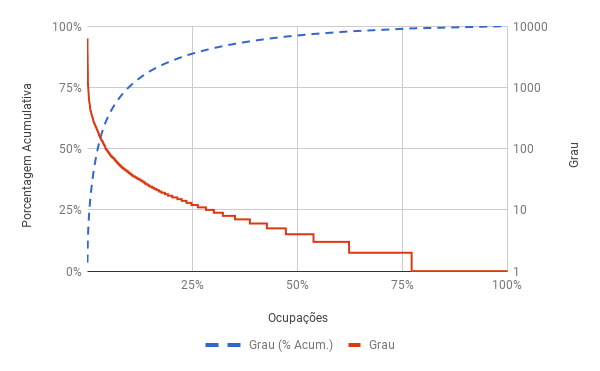
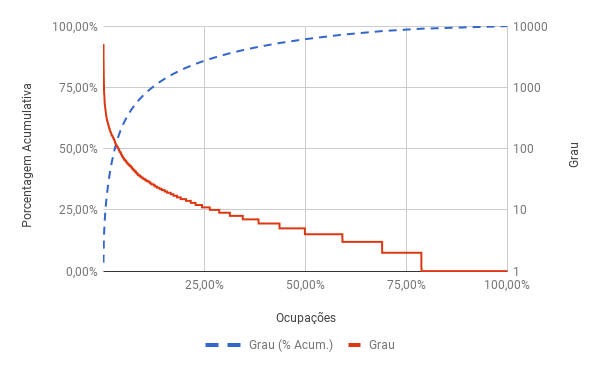
Versão nova de imagens e alteração no texto do Mapa
Com a nova versão usando trigramas, o texto precisou ser alterado. Novas
seções vão entrar para explicar melhor o processo.

diff --git a/main.tex b/main.tex
@@ -118,15 +118,15 @@ Também os modelos de carreiras têm se modificado e teorias como as das \textit
 
 No entanto, o movimento de uma pessoa entre ocupações profissionais não é simples. A capacitação do indivíduo, a atratividade da nova ocupação e o próprio conhecimento de que uma transição é possível a tornam mais fácil ou difícil para os profissionais. Quando essa transição é percebida como uma barreira por um número suficiente de pessoas, surge uma \textit{fronteira de carreira}~\cite{Gunz2007-hr}. Essas fronteiras delimitam um grupo de ocupações nas quais um indivíduo tem maiores chances de permanecer durante sua trajetória profissional, denominado aqui como \textit{ilha ocupacional}.
 
-Esse trabalho utiliza o conceito de fronteira de carreira~\cite{Gunz2007-hr}, um banco de dados real com milhões de experiências profissionais ~\cite{VAGAS_Tecnologia2014-yv} e técnicas de detecção de comunidades em redes~\cite{Rosvall2009-sd} para encontrar esses grupos profissionais no mercado de trabalho brasileiro, discutir e entender sua estrutura.
+Esse trabalho utiliza o conceito de fronteira de carreira~\cite{Gunz2007-hr}, um banco de dados real com milhões de experiências profissionais ~\cite{VAGAS_Tecnologia2014-yv} e técnicas de detecção de comunidades em redes~\cite{Rosvall2009-sd} para encontrar ilhas ocupacionais no mercado de trabalho brasileiro, discutir e entender sua estrutura.
 
-O estudo revela onde estão as fronteiras das ilhas ocupacionais, quais suas composições e apresenta \textit{insights} sobre suas estruturas. O resultado obtido pode ser usado para o refinamento de teorias sobre carreira, como uma classificação natural para as ocupações baseada na movimentação profissional, ou como subsídio para o planejamento de carreiras.
+O estudo revela onde estão as fronteiras das ilhas, quais suas composições e apresenta \textit{insights} sobre suas estruturas. O resultado obtido pode ser usado para o refinamento de teorias sobre carreira, como uma classificação natural para as ocupações baseada na movimentação profissional, ou como subsídio para o planejamento de carreiras.
 
 A principal contribuição desse trabalho está em tornar concreto o conceito de \textit{fronteiras de carreira}, aplicando técnicas de Ciência de Redes para revelar a estrutura da rede de movimentação profissional no Brasil. O trabalho se estende nesse processo, derivando o conceito de ilha ocupacional a partir das fronteiras de carreiras como grupos de ocupação que se isolam de outros, onde a movimentação inter-ilhas é rara em comparação à movimentação intra-ilhas.
 
-Explorando esse conceito, o trabalho caracteriza a topologia das ilhas ocupacionais e propõe a identificação de \textit{polos ocupacionais} como ocupações que possuem papel crucial na estrutura. A topologia encontrada na maior parte das ilhas tende a um formato estrelado, sugerindo que a atuação nos polos afetem a ilha como um todo.
+Explorando esse conceito, o trabalho caracteriza a topologia das ilhas ocupacionais e propõe a identificação de \textit{polos ocupacionais} como ocupações que possuem papel crucial na estrutura. A topologia encontrada na maior parte das ilhas tende a um formato estrelado, sugerindo que a atuação nos polos afeta a ilha como um todo.
 
-A presença de uma ilha gigante nos resultados fornece indícios que suportam modelos de carreira, como o de \textit{Carreira sem Fronteiras}, ao mesmo tempo em que indicam que eles não abrangem todos os segmentos profissionais.
+A presença de uma ilha gigante nos resultados fornece indícios que suportam o modelo de \textit{Carreira sem Fronteiras}, ao mesmo tempo em que indica que ela não abrange todos os segmentos profissionais.
 
 Esse artigo está organizado da seguinte forma. A Seção~\ref{sec:carreira} descreve o conceito de fronteira da carreira, enquanto a Seção~\ref{sec:mapa} descreve o banco de dados utilizado na pesquisa. As Seções~\ref{sec:comunidades} e~\ref{sec:assortatividade} descrevem os algoritmos empregados para detecção de comunidades e a medição utilizada na caracterização da topologia. Finalmente, a Seção~\ref{sec:resultados} discute e levanta questões sobre os resultados obtidos. As conexões entre fronteiras de carreira e o algoritmo utilizado para detecção de comunidades são feitas ao final das Seções~\ref{sec:carreira} e~\ref{sec:comunidades}.
 
@@ -136,7 +136,7 @@ Esse artigo está organizado da seguinte forma. A Seção~\ref{sec:carreira} des
 
 Segundo~\citeonline{Arthur1989-rn}, carreira é \foreignquote{english}{uma sequência evolutiva da experiência profissional de uma pessoa no tempo}\footnote{No original: \enquote{an evolving sequence of person's work experience over time}.}.
 
-Apesar das discussões sobre as mudanças nos modelos de carreira, passando de um modelo linear e centrado na organização para um modelo centrado no indivíduo, as definições de carreira são frequentemente associadas à progressão ou sequência profissional do indivíduo~\cite{Baruch2004-oy,Sullivan2009-xb,Bendassolli2009-bg}.
+Apesar das discussões sobre as mudanças nos modelos de carreira, passando de um modelo linear e centrado na organização para um modelo centrado no indivíduo, as definições de carreira são frequentemente associadas à progressão profissional do indivíduo~\cite{Baruch2004-oy,Sullivan2009-xb,Bendassolli2009-bg}.
 
 Para os fins desse trabalho, define-se carreira como \textit{a sequência de \textbf{ocupações} pela qual um indivíduo passa em sua vida profissional}. Essa definição é similar à de \citeonline{Arthur1989-rn}, porém, limita sua abrangência e a torna mais concreta. Isso permite uma análise menos subjetiva, uma vez que ocupações profissionais podem ser extraídas de currículos e analisadas quantitativamente. No entanto, ela se torna mais limitada, já que essa definição exclui aspectos psicológicos ou sociais.
 
@@ -154,9 +154,9 @@ Dessa maneira, as fronteiras de carreira são definidas objetivamente quando uma
 
 Partindo desse pressuposto, a identificação de trajetórias comuns e incomuns é condição suficiente e necessária para a detecção de fronteiras entre carreiras. Suficiente, pois a própria definição de fronteira é dependente da identificação do que são transições \enquote{incomuns}. Necessária, pois não existem fronteiras objetivamente definidas sem o consenso.
 
-Essas fronteiras isolam algumas ocupações das outras, criando grupo coeso não por alguma característica intrínseca, mas pelo distanciamento.  Ou seja, a fronteira define o grupo, e não o contrário~\cite{Gunz2007-hr,Abbott1995-ft}. 
+Essas fronteiras isolam algumas ocupações das outras, criando um grupo coeso pelo distanciamento dos outros grupos e não por alguma característica intrínseca.  Ou seja, a fronteira define o grupo, e não o contrário~\cite{Gunz2007-hr,Abbott1995-ft}. 
 
-No presente trabalho esses aglomerados de ocupações são chamados \textit{ilhas de ocupações} ou \textit{ilhas ocupacionais}, refletindo a facilidade de movimentação dentro de suas fronteiras e o distanciamento de outros grupos. O termo é usado somente para descrever ocupações, enquanto os termos \textit{partição} ou \textit{comunidade} se referem a subgrafos em uma rede genérica.
+No presente trabalho esses aglomerados de ocupações são chamados \textit{ilhas de ocupações} ou \textit{ilhas ocupacionais}, refletindo a facilidade de movimentação dentro de suas fronteiras e o distanciamento de outros grupos.
 
 Como será visto a seguir, as ocupações serão representadas por nós em um grafo, enquanto as conexões trarão informações sobre as transições entre ocupações. Neste tipo de representação, outro conceito central introduzido para o desenvolvimento da pesquisa é o de \textit{polos ocupacionais}, ou seja, ocupações dentro de uma ilha por onde passa o maior fluxo de profissionais. Dada a topologia em formato de estrela encontrada nas ilhas, é esperado que perturbações nesses nós, como aumento ou diminuição no fluxo de profissionais, afetem a rede como um todo e sua eliminação causem o esfacelamento da ilha, ou seja, são as principais responsáveis por manter a ilha \textit{coesa}~\cite{Callaway2000-ug}. 
 
@@ -177,19 +177,19 @@ O Mapa VAGAS de Carreiras~\cite{VAGAS_Tecnologia2014-yv} é uma rede que resume 
   \label{fig:ex-mapa-midia}
 \end{figure}
 
-As ocupações no MCar foram definidas a partir de \textit{consenso} nos currículos. Como o título da ocupação é um campo em que o usuário digita livremente, assumiu-se que, se um grupo \enquote{suficientemente grande} de pessoas entra em acordo sobre uma certa nomenclatura, ela representa objetivamente uma ocupação. Essa abordagem é colocada de maneira implícita em ~\citeonline{Abbott1995-ft}, já \citeonline{Gunz2007-hr} a exploram para definir fronteiras de carreiras.
+As ocupações no MCar foram definidas a partir de \textit{consenso} nos currículos. Como o título da ocupação é um campo em que o usuário digita livremente, assumiu-se que, se um grupo \enquote{suficientemente grande} de pessoas entra em acordo sobre uma certa nomenclatura, ela representa objetivamente uma ocupação. Essa abordagem é colocada de maneira implícita em ~\citeonline{Abbott1995-ft}, enquanto \citeonline{Gunz2007-hr} a exploram para definir fronteiras de carreiras.
 
-Uma das maiores dificuldades está em se definir o quanto um consenso precisa ser \enquote{suficientemente grande} para de fato existir uma ocupação. Para os fins desse trabalho, esse número foi obtido de forma experimental e empírica. Para isso, procurou-se o número mínimo de repetições exatas na grafia das ocupações de maneira que não fossem encontrados erros de digitação recorrentes, ou seja, que das ocupações criadas por consenso, nenhuma fosse resultado de erros frequentes de digitação. Esse número foi definido em 30 repetições, ou 10 transições com exatamente a mesma grafia em ambos os lados da transição.
+Uma das maiores dificuldades para se estabelecer uma ocupação através de consenso está em definir o quanto ele deve ser \enquote{suficientemente grande} para que seja considerada como tal. Para os fins desse trabalho, esse número foi obtido de forma experimental e empírica. Para isso, procurou-se o número mínimo de repetições exatas na grafia das ocupações de maneira que não fossem encontrados erros de digitação recorrentes, ou seja, que das ocupações criadas por consenso, nenhuma fosse resultado de erros frequentes de digitação. Esse número foi definido em 30 repetições da mesma grafia no título da ocupação.
 
-Para a criação do MCar foram usados os currículos anonimizados de 10 milhões de usuários registrados no site VAGAS.com.br. A seleção de dados, bem como o processamento das informações, seguiu um procedimento conservador. Isso significa que as decisões tomadas em sua construção procuram minimizar os erros decorrentes da qualidade dos dados, mesmo que isso signifique trabalhar com uma quantidade menor deles. Utilizando o exemplo na Figura~\ref{fig:ex-mapa-midia}, isso significa que, provavelmente, muito mais do que 16 pessoas na base de dados fizeram a transição de \enquote{supervisor-de-midia} para a ocupação \enquote{gerente-de-midia}, porém, esses 16 são livres de erros e de subjetividade.
+Para a criação do MCar foram usados os currículos anonimizados de 10 milhões de usuários registrados no site VAGAS.com.br. A seleção de dados, bem como o processamento das informações, seguiu um procedimento conservador. Isso significa que as decisões tomadas em sua construção procuram minimizar os erros decorrentes da qualidade dos dados, mesmo que isso signifique trabalhar com uma quantidade menor deles. Utilizando o exemplo na Figura~\ref{fig:ex-mapa-midia}, isso significa que, provavelmente, muito mais do que 16 pessoas na base de dados fizeram a transição de \enquote{supervisor-de-midia} para a ocupação \enquote{gerente-de-midia}, porém, esses 16 são livres de erros e subjetividade.
 
 Da massa de currículos, apenas os atualizados no período entre 2011 e 2016 foram usados. Currículos em duplicação foram removidos usando o CPF como identificador; em caso de duplicação, apenas o currículo mais recente foi considerado. Na impossibilidade de se verificar a duplicação, como por exemplo, na ausência do CPF, o currículo também foi descartado.
 
 Finalmente, algumas informações gerais foram extraídas dos currículos que passaram pelo processo acima e o restante das informações foi descartada, incluindo quaisquer maneiras de se identificar a pessoa descrita no currículo, garantindo a anonimidade do processo.
 
-As informações extraídas são o sexo, último salário, graduação (se existente) ou escolaridade, e a sequência de ocupações pela qual o profissional passou com o título, descrição e período em que exerceu a ocupação.
+As informações extraídas são o sexo, último salário, graduação (se existente) ou escolaridade, e a sequência de ocupações pela qual o profissional passou com seu título, descrição e período em que exerceu a ocupação. Esse trabalho utiliza apenas a sequência de ocupações.
 
-O título da ocupação é um dos principais artefatos do MCar, é ele quem fornece a identidade para o nó. Como descrito acima, nos currículos, o título da ocupação é um campo de texto livre, ou seja, o usuário pode digitar o título sem restrições. Se por um lado isso permite a identificação de ocupações de nicho, novas ou que usem jargão de área; por outro isso significa que os títulos possuem erros de grafia, variações de gênero (como em \enquote{advogado} e \enquote{advogada} ou \enquote{moto boy} e \enquote{moto girl}), composição de múltiplas ocupações em um mesmo título (como \enquote{caixa/balconista}), abreviações e toda a gama de erros de interpretação possíveis.
+O título da ocupação é um dos principais artefatos do MCar, é ele quem fornece a identidade para o nó. Como descrito acima, nos currículos, o título da ocupação é um campo de texto livre, ou seja, o usuário pode digitar o título sem restrições. Se por um lado isso permite a identificação de ocupações de nicho, novas ou que usem jargão de áre; por outro isso significa que os títulos possuem erros de grafia, variações de gênero (como em \enquote{advogado} e \enquote{advogada} ou \enquote{moto boy} e \enquote{moto girl}), composição de múltiplas ocupações em um mesmo título (como \enquote{caixa/balconista}), abreviações e toda a gama de erros de interpretação possíveis.
 
 As ocupações passam por um corretor ortográfico criado especificamente para esse trabalho, uma vez que um corretor tradicional não é capaz de identificar jargões de área como \enquote{enfermeiranda}, \enquote{rigger} ou \enquote{IRLA}.
 
@@ -197,11 +197,11 @@ Como exemplo, o dicionário do corretor possui cerca de 750 variações ortográ
 
 Após o trabalho de correção ortográfica, os títulos foram agrupados e contados. Especialistas da empresa verificaram os resultados dos maiores grupos para identificar anomalias, como ocupações com os títulos \enquote{sim}, \enquote{não} e \enquote{o mesmo}. Ocupações como essas foram excluídas do trabalho.
 
-Finalmente, pares de ocupações foram gerados. Por exemplo, um currículo com a sequência de ocupações \enquote{saladeiro} $\to$ \enquote{chapeiro} $\to$ \enquote{cozinheiro} gera os pares \enquote{saladeiro} $\to$ \enquote{chapeiro} e \enquote{chapeiro} $\to$ \enquote{cozinheiro}.
+A partir desse ponto o trabalho diverge do MCar. Enquanto o segundo usa conexões direcionadas entre duas ocupações, o primeiro usa trigramas direcionados, ou seja, sequências de três ocupações.  Dessa forma, o algoritmo consegue identificar ocupações que pertencem a múltiplas comunidades. Os detalhes são explicados da Seção \ref{sec:infomap}.
 
-Os pares foram agrupados e sua contagem se torna o peso de cada conexão na rede final. Nesse ponto do processo, cerca de 23 milhões de experiências profissionais são agrupadas em exatamente 7.450 ocupações distintas.
+No MCar, a sequência de ocupação foi usada para gerar pares. Por exemplo, um currículo com a sequência de ocupações \enquote{saladeiro} $\to$ \enquote{chapeiro} $\to$ \enquote{cozinheiro} gera os pares \enquote{saladeiro} $\to$ \enquote{chapeiro} e \enquote{chapeiro} $\to$ \enquote{cozinheiro}. Os pares foram agrupados e sua contagem se torna o peso de cada conexão na rede final.
 
-Finalmente, os pares de ocupações foram conectados entre si e a rede final foi construída e armazenada em um banco de dados de grafo. Um sistema online\footnote{Disponível em \url{http://www.vagas.com.br/mapa-de-carreiras}} disponibiliza as informações publicamente. Apesar de gratuito e de consulta pública, os dados do Mapa VAGAS da Carreira não são de uso livre. A empresa gentilmente cedeu os dados ao pesquisador para esse trabalho.
+Finalmente, as conexões foram conectadas pela ocupações em comum e a rede final foi construída e armazenada em um banco de dados de grafo. Um sistema online\footnote{Disponível em \url{http://www.vagas.com.br/mapa-de-carreiras}} disponibiliza as informações publicamente. Apesar de gratuito e de consulta pública, os dados do Mapa VAGAS da Carreira não são de uso livre. A empresa gentilmente cedeu os dados ao pesquisador para esse trabalho.
 
 %===================================
 \section{Grafos e Detecção de Comunidades} \label{sec:comunidades}
@@ -209,7 +209,7 @@ Finalmente, os pares de ocupações foram conectados entre si e a rede final foi
 
 Uma \textit{comunidade} é um subgrafo com conexões mais \textit{coesas} entre seus nós do que com nós do restante do grafo. A palavra \enquote{coesão} aqui pode ser interpretada de várias maneiras. Para \citeonline{Ahn2010-uh,Evans2009-lq}, uma comunidade é definida quando o número de conexões internas do subgrafo é maior que o número de conexões que o conecta ao resto do grafo. Para \citeonline{Barabasi2016-rn,Newman2004-jg} a comunidade deve possuir uma densidade de conexões mais alta do que o esperado em uma rede aleatória equivalente. Para esses autores, o número de conexões é o fator determinante para a identificação da comunidade.
 
-\citeonline{Rosvall2009-sd,Van_Dongen2000-qm}, por sua vez, trabalham a detecção de comunidades como a identificação de fluxos mais frequentes na rede. Assumindo que uma conexão representa um fluxo, comunidades possuem fluxo maior entre seus nós do que com nós fora da comunidade.
+\citeonline{Rosvall2009-sd} e \citeonline{Van_Dongen2000-qm}, por sua vez, trabalham a detecção de comunidades como a identificação de fluxos mais frequentes na rede. Assumindo que uma conexão representa um fluxo, comunidades possuem fluxo maior entre seus nós do que com outros fora da comunidade.
 
 Essas abordagens distintas são aplicáveis a cenários diferentes. A densidade de conexões é mais adequada em redes onde a estrutura é importante, como, por exemplo, em uma rede social. Já em redes que representam fluxos, como circuitos ou redes de transporte, a segunda abordagem é mais atraente~\cite{Rosvall2009-sd}.
 
@@ -269,9 +269,9 @@ Se cada nó for representado por uma sequência de bits, podemos medir quanta in
 
 Os códigos usados por cada grupo são chamados \textit{codebooks}, os códigos que indicam qual \textit{codebook} será usado também é um \textit{codebook}, funcionando como um índice. Na Figura~\ref{fig:graph04}, existem três deles, um para cada grupo, contendo os nós \enquote{00}, \enquote{01}, \enquote{10}, \enquote{110} e o código de saída \enquote{111}. O \textit{codebook} índice possui os códigos: \enquote{0}, \enquote{10} e \enquote{11}.
 
-Dessa forma o caminho que começa no nó mais abaixo do grafo da Figura~\ref{fig:graph03} e termina no nó do canto superior esquerdo é descrito pela sequência binária \enquote{000 1110 1011 1111 1101}, usando 19 bits. O mesmo caminho, usando a codificação da Figura~\ref{fig:graph04} é \enquote{\textbf{0} 01 110 \textit{111} \textbf{11} 00 01 10} e possui 17 bits (os números em negrito indicam entrada em um grupo e o número em itálico indica saída do grupo).
+Dessa forma, sem o uso de \textit{codebooks}, o caminho que começa no nó mais abaixo do grafo da Figura~\ref{fig:graph03} e termina no nó do canto superior esquerdo é descrito pela sequência binária \enquote{000 1110 1011 1111 1101}, usando 19 bits. O mesmo caminho, usando a codificação com \textit{codebooks} da Figura~\ref{fig:graph04} é \enquote{\textbf{0} 01 110 \textit{111} \textbf{11} 00 01 10} e possui 17 bits (os números em negrito indicam entrada em um grupo e o número em itálico indica saída do grupo).
 
-Nesse caminho curto, ambas as codificações têm tamanhos similares, Porém, em um caminho infinitamente longo (ergódico), o uso de múltiplos \textit{codebooks} pode produzir um código mais compacto do que o uso de um único \textit{codebook}. Como exemplo, o caminho da Figura~\ref{fig:walk01} usando a codificação com um único \textit{codebook}da Figura~\ref{fig:graph03} possui 2880 bits, enquanto possui 1776 bits usando a codificação com três \textit{codebooks} da Figura~\ref{fig:graph04}.
+Nesse caminho curto, ambas as codificações têm tamanhos similares, Porém, em um caminho infinitamente longo (ergódico), o uso de múltiplos \textit{codebooks} pode produzir um código mais compacto do que o uso de um único \textit{codebook}. Como exemplo, o caminho da Figura~\ref{fig:walk01} usando a codificação com um único \textit{codebook} da Figura~\ref{fig:graph03} possui 2880 bits contra 1776 bits usando a codificação com três \textit{codebooks} da Figura~\ref{fig:graph04}.
 
 \begin{figure}[ht]
   \centering
@@ -340,7 +340,7 @@ H(\mathcal{P}^i)         &= - \frac{q_{i \curvearrowright}}{p^i_\circlearrowrigh
 L(\mathsf{M})              &= q_\curvearrowright \log_2 q_\curvearrowright - 2 \sum_{i = 1}^m q_{i \curvearrowright} \log_2 q_{i \curvearrowright} - \sum_{\alpha = 1}^n p_\alpha \log_2 p_\alpha + \sum_{i = 1}^m p^i_\circlearrowright \log_2 p^i_\circlearrowright\,.
 \end{align}
 
-Existem variações da Equação de Mapa para detecção de comunidades sobrepostas~\cite{Viamontes_Esquivel2011-it} e hierárquicas~\cite{Rosvall2011-yi}. Este trabalho usa ambas as variações.
+Existem variações da Equação de Mapa para detecção de comunidades sobrepostas~\cite{Viamontes_Esquivel2011-it} e hierárquicas~\cite{Rosvall2011-yi}. Este trabalho usa a variação hierárquica.
 
 Para o algoritmo que permite que os nós pertençam a mais de uma comunidade, \citeonline{Viamontes_Esquivel2011-it} usam \textit{conexões com memória} para lembrar o passo anterior do \textit{random walker}. Quando ele se mover para um nó que pertence à múltiplas comunidades, ele se manterá na comunidade de onde veio, se possível.
 
@@ -368,6 +368,9 @@ A Equação de Mapa para comunidades com sobreposição é
                                + \sum_{i=1}^m p^i_\circlearrowright \log_2 p^i_\circlearrowright\,.                            
 \end{equation}
 
+\begin{comment}
+%% NOTA (Ronie): Tive problemas com o software para rodar a versão hierárquica SEM sobreposição. Para evitar alongar ainda mais esse artigo, excluí as partes de hierarquia. Não vai fazer muita falta, até pq o foco aqui são as ilhas (e não 'ilhas aninhadas').
+
 A variação hierárquica do algoritmo possibilita detecção de comunidades aninhadas, nesse caso, ela é uma generalização da Equação de Mapa original que permite múltiplos \textit{codebooks} índices.
 
 Nessa variação, cada partição $\mathsf{M}$ possui um subparticionamento $\mathsf{M}^i$. Cada um dos subgrupos de $\mathsf{M}^i$ possui outro subparticionamento $\mathsf{M}^{ij}$ e assim sucessivamente até o particionamento final $\mathsf{M}^{ij \ldots k}$.
@@ -391,6 +394,7 @@ A Equação de Mapa original (Equação~\ref{eq:map-equation}) é na verdade um 
 %% SE USAMOS AS VARIAÇÕES DA EQUAÇÃO DE MAPA, ENTÃO PRECISAMOS APRESENTÁ-LAS AQUI
 % Ronie: Feito!!!! Demorou uma vida pra entender como as equações dos três artigos se relacionavam, mas entendi :) A pior parte foi entender que a matriz estocástica W é linear, enquanto que nos materiais introdutórios ela é _sempre_ colunar, essa confusão me fez ficar dois fins se semana batendo a cabeça com 'essa conta não faz sentido'. Pois é, não fazia mesmo.
 % Ronie: Está faltando só a equação hierárquica, estou escrevendo ela agora.
+\end{comment}
 
 %===================================
 \section{Assortatividade} \label{sec:assortatividade}
@@ -400,13 +404,13 @@ A assortatividade é uma medida de quão nós similares estão conectados entre 
 
 A assortatividade de grau é de especial interesse na análise de redes, pois permite caracterizar sua topologia. Redes com assortatividade negativa (desassortativas), remetem à topologia de \enquote{eixo e raios} (\textit{hub and spokes}), onde nós de grau muito alto (\textit{hubs}) se conectam a muitos nós de grau mais baixo~\cite{Barabasi2016-rn}. A Figura~\ref{fig:ex-sobreposicao-ti} mostra um exemplo de uma rede em que predomina essa topologia.
 
-Quanto menor a assortatividade, mais a rede se aproxima da topologia de \enquote{estrela}, em que todos os nós de alto grau só se conectam a nós de grau muito baixo. Como exemplos, a ilha ocupacional relacionada a \enquote{fisioterapia} na Figura~\ref{fig:ex-fisioterapeutas}, com assortatividade $-0,27$, possui todos os nós conectados a um \textit{hub} central, com poucas conexões entre ocupações periféricas. Já a ilha relacionada a \enquote{bolsistas} na Figura~\ref{fig:ex-bolsistas}, com assortatividade $-0,07$, não possui um \textit{hub} tão claramente definido; ainda que existam alguns nós folhas conectados a nós de maior grau, boa parte dos nós possui grau similar.
+Quanto menor a assortatividade, mais a rede se aproxima da topologia de \enquote{estrela}, em que todos os nós de alto grau só se conectam a nós de grau muito baixo. Como exemplos, a ilha ocupacional relacionada a \enquote{fisioterapia} na Figura~\ref{fig:ex-assortatividade-negativa}, com assortatividade $-0,27$, possui todos os nós conectados a um \textit{hub} central, com poucas conexões entre ocupações periféricas. Já a ilha relacionada a \enquote{bolsistas} na Figura~\ref{fig:ex-bolsistas}, com assortatividade $-0,07$, não possui um \textit{hub} tão claramente definido; ainda que existam alguns nós folhas conectados a nós de maior grau, boa parte dos nós possui grau similar.
 
 \begin{figure}[ht]
     \centering
-    \subfloat[][Assortatividade $-0,27$] {
-        \includegraphics[width=0.4\linewidth]{ex-sobreposicao-fisioterapeutas.pdf}
-        \label{fig:ex-fisioterapeutas}
+    \subfloat[][Engenheiro de Segurança do Trabalho - Assortatividade $-0,53$] {
+        \includegraphics[width=0.4\linewidth]{ex-assortatividade-negativa.pdf}
+        \label{fig:ex-assortatividade-negativa}
     }
     \subfloat[][Assortatividade $-0,07$] {
         \includegraphics[width=0.4\linewidth]{ex-sobreposicao-bolsistas.pdf}
@@ -455,17 +459,17 @@ r &= \frac{p - q}
 
 % Descrição dos dados:
 
-A versão do MCar usada nesse trabalho é de fevereiro de 2017. Ela possui exatamente 7.450 ocupações distintas e 90.800 conexões.
+Os dados usadas para esse trabalho são do MCar de fevereiro de 2017. Após o processo de limpeza da informação o grafo resultante possui 8.395 nós e 74.197 conexões. A versão com trigramas usada para identificação das Ilhas Ocupacionais possui o mesmo número de nós distribuídos em 146.548 trigramas.
 
-A rede de ocupações possui a distribuição de grau exibida no gráfico de Pareto da Figura~\ref{fig:pareto-grau}. Ela possui uma grande concentração de conexões em poucos nós, formando \textit{hubs}. Os 25,01\% nós de maior grau são responsáveis por 88,76\% das conexões da rede.
+A rede de ocupações possui a distribuição de grau exibida no gráfico de Pareto da Figura~\ref{fig:pareto-grau}. Ela possui uma grande concentração de conexões em poucos nós, formando \textit{hubs}. Os 25\% nós de maior grau são responsáveis por 86,51\% das conexões da rede.
 
-Por ser uma rede direcionada, um certo cuidado na análise é necessário, uma vez que o grau dos nós não corresponde diretamente ao número de nós conectados. Imaginando que cada nó pode uma ou duas conexões com um nó vizinho, o grau $k_i$, varia em relação ao número de vizinhos entre $k_i = v_i$ e $k_i = 2v_i$, onde $v$ é o número de nós conectados ao nó $i$ por uma conexão de entrada ou saída.
+Por ser uma rede direcionada, um certo cuidado na análise é necessário, uma vez que o grau dos nós não corresponde diretamente ao número de nós conectados. Imaginando que cada nó pode ter uma ou duas conexões com o mesmo nó vizinho, o grau $k_i$, varia em relação ao número de vizinhos entre $k_i = v_i$ e $k_i = 2v_i$, onde $v$ é o número de nós conectados ao nó $i$ por uma conexão de entrada ou saída.
 
-O quanto cada nó contribui para a conectividade da rede pode ser observada no gráfico de Pareto da Figura~\ref{fig:pareto-subgrafo}. As ocupações estão ordenadas pelo número de nós no subgrafo formado pela ocupação e todos os seu nós vizinhos. Exatamente 10\% dos nós com mais vizinhos são suficientes para conectar 95,77\% da rede.
+O quanto cada nó contribui para a conectividade da rede pode ser observada no gráfico de Pareto da Figura~\ref{fig:pareto-egografo}. As ocupações estão ordenadas pelo número de vizinhos. Exatamente 10\% dos nós com mais vizinhos são suficientes para conectar 95,77\% da rede.
 
 O nó de maior grau \textit{Auxiliar Administrativo} possui 6.308 das 90.800 conexões da rede, mas forma um subgrafo com os nós vizinhos com 3.962 dos 7.450 nós da rede, ou seja, 53,18\% das ocupações de alguma forma possui fluxo de profissionais saindo ou entrando dessa ocupação.
 
-Na Figura~\ref{fig:pareto-subgrafo}, o acumulativo considera apenas o nós \textit{novos} em relação às ocupações anteriores. Por exemplo, a segunda ocupação mais conectada (\textit{Vendedor}, com 2215 nós vizinhos) possui apenas 218 nós \enquote{inéditos} em relação a \textit{Auxiliar Administrativo}, a terceira ocupação (\textit{Assistente Administrativo}, com 2.192 nós vizinhos) contribui apenas com 83 nós não conectados pelas duas ocupações anteriores.
+Na Figura~\ref{fig:pareto-egografo}, o acumulativo considera apenas o nós \textit{novos} em relação às ocupações anteriores. Por exemplo, a segunda ocupação mais conectada (\textit{Vendedor}, com 2215 nós vizinhos) possui apenas 218 nós \enquote{inéditos} em relação a \textit{Auxiliar Administrativo}, a terceira ocupação (\textit{Assistente Administrativo}, com 2.192 nós vizinhos) contribui apenas com 83 nós não conectados pelas duas ocupações anteriores.
 
 %% AH, VOCÊ NÃO VAI DEIXAR O LEITOR CURIOSO PARA SABER QUAL É ESSA OCUPAÇÃO QUE SE CONECTA COM QUASE TODAS AS OUTRAS, VAI? DIZ AÍ! E ESCREVA TAMBÉM. INCLUSIVE, VALEM ALGUNS COMENTÁRIOS SOBRE TAL OCUPAÇÃO.
 
@@ -477,17 +481,17 @@ Na Figura~\ref{fig:pareto-subgrafo}, o acumulativo considera apenas o nós \text
     \includegraphics[width=0.49\linewidth]{pareto-grau}
     \label{fig:pareto-grau}
   }    
-  \subfloat[][Pareto por Subgrafo Conectado] {
-      \includegraphics[width=0.49\linewidth]{pareto-subgrafo}
-      \label{fig:pareto-subgrafo}
+  \subfloat[][Pareto por Ego Grafo] {
+      \includegraphics[width=0.49\linewidth]{pareto-egografo}
+      \label{fig:pareto-egografo}
   }  
-  \caption{Gráficos de Pareto com a distribuição de grau  do MCar e com o tamanho dos subgrafos formados pelos nós com maior conectividade. Os gráficos estão colocados lado a lado para facilitar a comparação. Os nós estão ordenados de maneira decrescente no eixo horizontal; na Figura~\ref{fig:pareto-grau}  as ocupações de grau maior no estão à esquerda e ocupações de menor grau estão à direita. na Figura~\ref{fig:pareto-subgrafo} elas estão ordenadas pelo tamanho do subgrafo formado pela ocupação e todos os seus vizinhos. Os eixos direitos, em escala logarítmica, estão associados às linhas cheias e representam, respectivamente, o grau do nó e o tamanho do subgrafo. Os eixos esquerdos estão associados às linhas tracejadas; na Figura~\ref{fig:pareto-grau} ela representa a somatória de todos os graus em porcentagem e qual a contribuição das ocupações à esquerda para essa totalização; na Figura~\ref{fig:pareto-subgrafo} ela representa a quantidade de ocupações que o subgrafo formado pelas ocupações à esquerda}
+  \caption{Gráficos de Pareto com a distribuição de grau  do MCar e com o tamanho dos subgrafos formados pelos nós com maior conectividade. Os gráficos estão colocados lado a lado para facilitar a comparação. Os nós estão ordenados de maneira decrescente no eixo horizontal; na Figura~\ref{fig:pareto-grau}  as ocupações de grau maior no estão à esquerda e ocupações de menor grau estão à direita. na Figura~\ref{fig:pareto-egografo} elas estão ordenadas pelo tamanho do subgrafo formado pela ocupação e todos os seus vizinhos. Os eixos direitos, em escala logarítmica, estão associados às linhas cheias e representam, respectivamente, o grau do nó e o tamanho do subgrafo. Os eixos esquerdos estão associados às linhas tracejadas; na Figura~\ref{fig:pareto-grau} ela representa a somatória de todos os graus em porcentagem e qual a contribuição das ocupações à esquerda para essa totalização; na Figura~\ref{fig:pareto-egografo} ela representa a quantidade de ocupações que o subgrafo formado pelas ocupações à esquerda}
   \label{fig:paretos}
 \end{figure}
 
 Observando a Figura~\ref{fig:paretos} é possível notar que quase $1/4$ das ocupações possui apenas uma conexão (1.689 delas, 22,67\%), mas pouco menos de $1/3$ (2.317 delas, 31,10\%) possui apenas um nó vizinho.
 
-Essa característica parece reforçar o conceitos sobre movimentação profissional como a Carreira sem Fronteiras e a Carreira Proteana, indicando que uma grande quantidade de profissionais trilha por carreiras variadas e se adaptam a diferentes ocupações. No entanto, há uma rápida queda no número de conexões, sugerindo que esses conceitos não se aplicam a todas as ocupações igualmente. O \enquote{Paradoxo da Amizade}~\cite{Barabasi2016-rn} parece valer para pessoas transitando entre ocupações. O paradoxo é dado como \enquote{na média, meus amigos são mais populares que eu}, transportado para o contexto desse trabalho seria enunciado como \enquote{na média, os outros trabalhos que eu poderia executar têm mais opções de movimentação que o meu}. Esse paradoxo tem uma explicação simples, como se observa na Figura~\ref){fig:pareto-subgrafo}, um nó qualquer têm grandes chances de estar conectado a um ou mais \textit{hubs} o que, na média, faz com que as ocupações vizinhas tenham mais conexões do que as suas próprias.
+Essa característica parece reforçar o conceitos sobre movimentação profissional como a Carreira sem Fronteiras e a Carreira Proteana, indicando que uma grande quantidade de profissionais trilha por carreiras variadas e se adaptam a diferentes ocupações. No entanto, há uma rápida queda no número de conexões, sugerindo que esses conceitos não se aplicam a todas as ocupações igualmente. O \enquote{Paradoxo da Amizade}~\cite{Barabasi2016-rn} parece valer para pessoas transitando entre ocupações. O paradoxo é dado como \enquote{na média, meus amigos são mais populares que eu}, transportado para o contexto desse trabalho seria enunciado como \enquote{na média, os outros trabalhos que eu poderia executar têm mais opções de movimentação que o meu}. Esse paradoxo tem uma explicação simples, como se observa na Figura~\ref{fig:pareto-egografo}, um nó qualquer têm grandes chances de estar conectado a um ou mais \textit{hubs} o que, na média, faz com que as ocupações vizinhas tenham mais conexões do que as suas próprias.
 
 %% NA CIÊNCIA PRECISAMOS SER EXATOS. NÃO PODEMOS FICAR USANDO APROXIMADAMENTE O TEMPO TODO, OK? PADRONIZE DUAS CASAS DECIMAIS PARA PERCENTUAIS E ARREDONDE OS INTEIROS SE NECESSÁRIO.
 % Ronie: Okay!
@@ -496,20 +500,19 @@ Essa característica parece reforçar o conceitos sobre movimentação profissio
 
 Nos experimentos realizados, o algoritmo Infomap foi utilizado para encontrar o particionamento mais coeso do MCar em relação ao fluxo. Como exposto nas Seções~\ref{sec:carreira} e~\ref{sec:infomap}, esse particionamento é a própria definição de fronteiras de carreira.
 
-O Infomap é bastante robusto quanto aos parâmetros utilizados, ou seja, mesmo grandes variações em seus parâmetros devem produzir resultados similares~\cite{Kawamoto2015-ha,Lambiotte2012-fp}. Por essa razão e para comparação com o trabalho de \citeonline{Viamontes_Esquivel2011-it}  os parâmetros padrões foram utilizados: a probabilidade de teleporte para uma conexão aleatória de 0,15 e tempo de Markov em 1.
+O Infomap é bastante robusto quanto aos parâmetros utilizados, ou seja, mesmo grandes variações em seus parâmetros devem produzir resultados similares~\cite{Kawamoto2015-ha,Lambiotte2012-fp}. Por essa razão foi usado o parâmetro padrão de probabilidade de teleporte de 0,15 e tempo.
 
 Para esse algoritmo, quanto maior a compressão da informação do caminho do \textit{random walker}, melhor é o particionamento da rede~\cite{Rosvall2009-sd}.
 
-O MCar foi testado em três variações do algoritmo: 
+O MCar foi testado em duas variações do algoritmo: 
 \begin{itemize}
 \item Simples: consiste na detecção de comunidades em que cada nó pertence a apenas uma única comunidade. 
-\item Hierárquica: detectam-se comunidades dentro de outras. 
 \item Com sobreposição: permite-se que nós participem de mais de uma comunidade.
 \end{itemize}
 
-A variação com maior compressão revela a melhor caracterização de particionamento~\cite{Viamontes_Esquivel2011-it,Rosvall2011-yi}. Se uma rede possuir maior compressão de informação com a variação hierárquica do que com a variação simples, assume-se que ela inerentemente possui uma estrutura de comunidades aninhadas. Se a variação com sobreposição possuir maior compressão de informação do que as outras, assume-se que suas comunidades, intrinsecamente, compartilham nós.
+A variação com maior compressão revela a melhor caracterização de particionamento~\cite{Viamontes_Esquivel2011-it,Rosvall2011-yi}. Se a variação com sobreposição possuir maior compressão de informação do que as outras, assume-se que suas comunidades, intrinsecamente, compartilham nós.
 
-Os resultados de compressão para cada variação são apresentados na Tabela~\ref{tab:metodos}. É possível observar que as variações simples e hierárquica possuem quase a mesma compressão (os valores na tabela são aproximados), isso significa que o MCar não possui uma organização inerentemente hierárquica. Por outro lado, há um ganho expressivo de compressão de informação quando se permite a sobreposição de comunidades, revelando que existem ocupações compartilhadas entre grupos profissionais diferentes. Ainda assim, uma quantidade relativamente pequena de ocupações, cerca de 11\%, é compartilhada entre ilhas.
+Os resultados de compressão para cada variação são apresentados na Tabela~\ref{tab:metodos}. É possível observar que  há um ganho expressivo de compressão de informação quando se permite a sobreposição de comunidades, revelando que existem ocupações compartilhadas entre grupos profissionais diferentes. Ainda assim, uma quantidade relativamente pequena de ocupações, cerca de 11\%, é compartilhada entre ilhas.
 
 % INTUITIVAMENTE UMA COMPRESSÃO MAIOR IMPLICA EM MENOS COMUNIDADES, PORÉM SUA TABELA MOSTRA O CONTRÁRIO, ASSIM COMO O TEXTO. DE ACORDO COM SUA EXPLICAÇÃO UMA MAIOR COMPRESSÃO IMPLICA EM MELHOR PARTICIONAMENTO E, PORTANTO, MAIS COMUNIDADES.
 % Ronie: Aqui acho que preciso melhorar a explicação. Como tb não expliquei as variações hierárquicas e com sobreposição do Infomap estão também falta uma peça do quebra cabeças. A compressão dessa 'descrição do caminho do random walker' acaba criando um balanço entre quantidade de nós e de comunidades. Se não houverem 'gargalos' de fluxo, o random walker não fica 'preso' em um subgrafo e a melhor compressão acontece simplesmente por códigos mais curtos nos nós mais frequentes, sem divisão em comunidades. Por outro lado, quando existe um gargalo o random walker fica preso por um longo tempo de um lado ou de outro dele, nesse formato a melhor compressão acontece se cada 'prisão' reutilizar os códigos mais curtos e criarmos um outro código para passar de um lado para o outro do gargalo. O que está acontecendo na variação com sobreposição é que existem nós, ao invés de conexãos, que são fronteira entre as comunidades. Uma boa ilustração disso é o grafo 'gravata borboleta' com 5 nós e 6 conexões, nesse formato: ▷◁. Sem permitir sobreposição de comunidades, o nós central força os dois triângulos a pertencer em uma única comunidade. Permitindo a sobreposição, o nó central consegue participar de duas comunidades: ▷ e ◁. Se fosse uma rede com uma conexão entre os triângulos, desse jeito: ▷—◁, então o gargalo seria a conexão (não o nó) e o algoritmo que não permite sobreposição teria a melhor compressão.
@@ -520,9 +523,8 @@ Os resultados de compressão para cada variação são apresentados na Tabela~\r
     \toprule
     Variação         & Compressão & Ilhas Ocupacionais  \\
     \midrule
-    Simples          & 14\%       & 123     \\
-    Hierárquica      & 14\%       & 123     \\
-    Com sobreposição & 44\%       & 926     \\
+    Simples          & 46,08\%       & 123     \\
+    Com sobreposição & 50,30\%       & 926     \\
     \bottomrule
   \end{tabular}
   \caption{Métodos de detecção de comunidades e seus resultados. O \textit{Método} se refere ao tipo (variação) de particionamento. \textit{Compressão} significa qual a compressão de informação obtida pelo Infomap em relação a uma rede sem particionamento. \textit{Ihas Ocupacionais} é o número de partições resultantes.}
